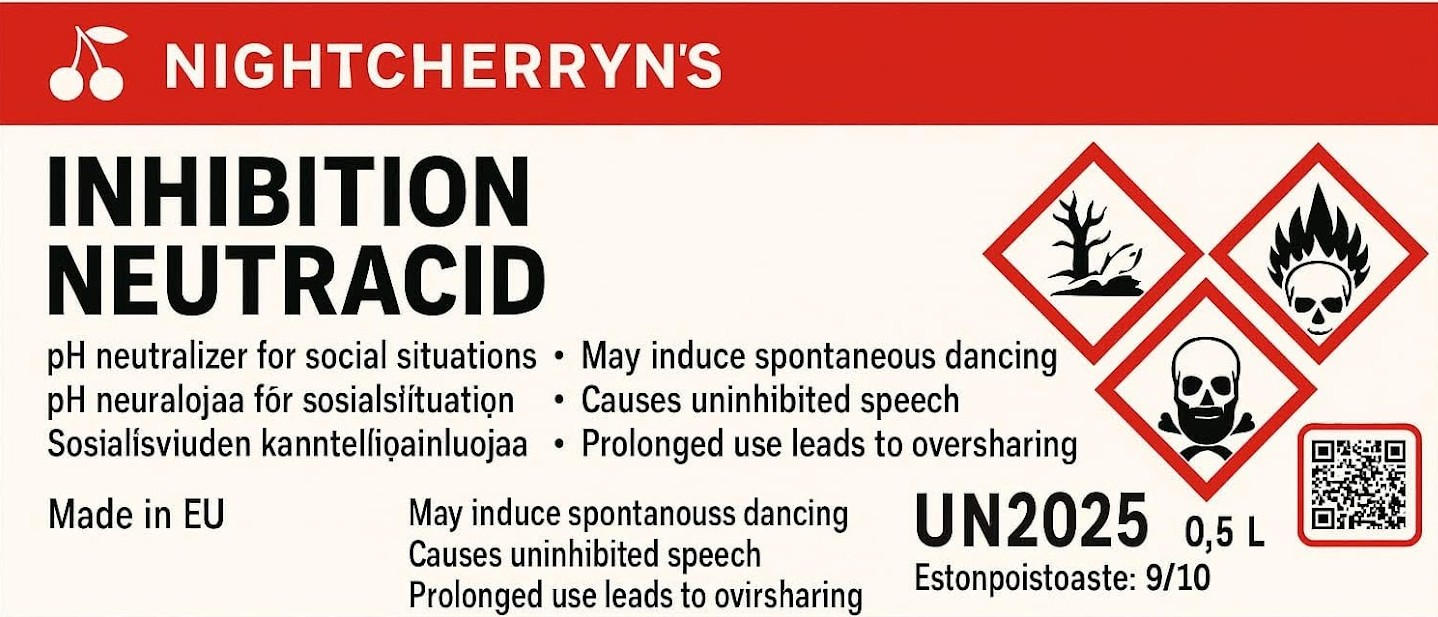
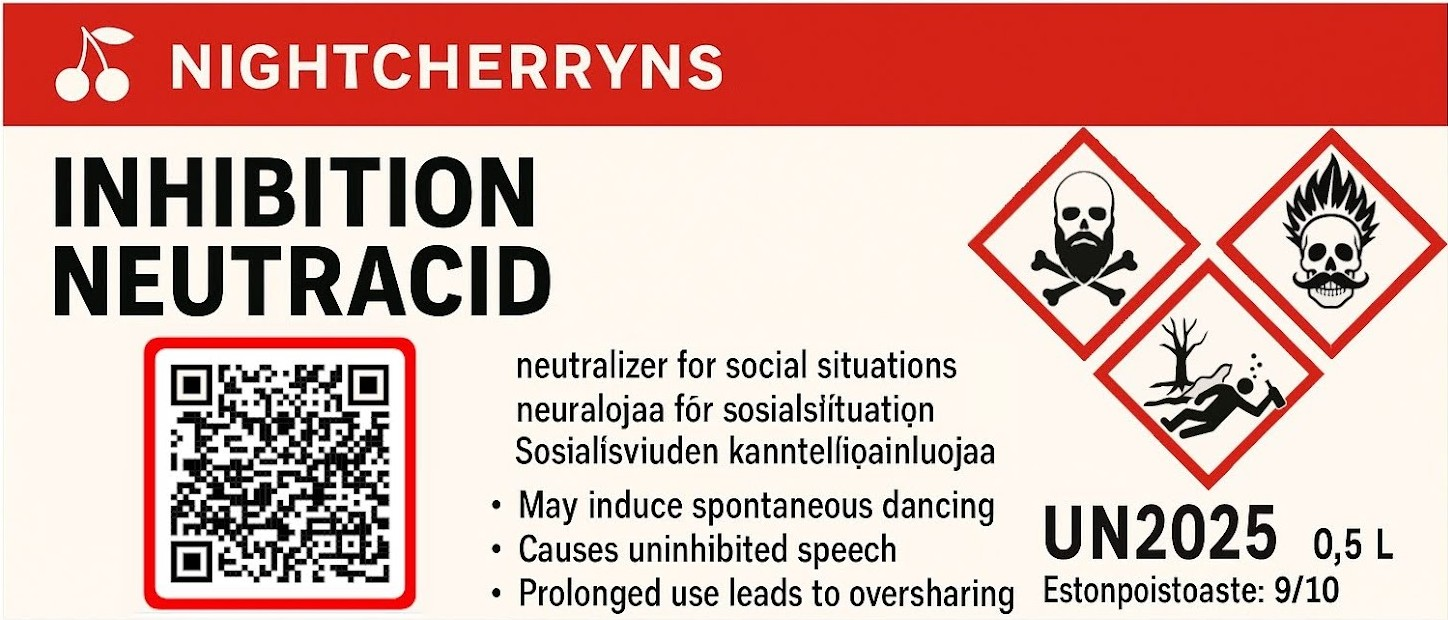
test

Changed region(s): [[0.0306, 0.1848, 1.0, 1.0], [0.0, 0.0, 1.0, 0.2156]]

diff --git a/index.html b/index.html
@@ -4,7 +4,7 @@
 <head>
   <meta charset="utf-8">
   <meta name="viewport" content="width=device-width, initial-scale=1">
-  <title>Night Cherryn's kemikaalit</title>
+  <title>Night Cherryns kemikaalit</title>
   <meta name="description" content="">
   <meta name="theme-color" content="#712cf9">
 
